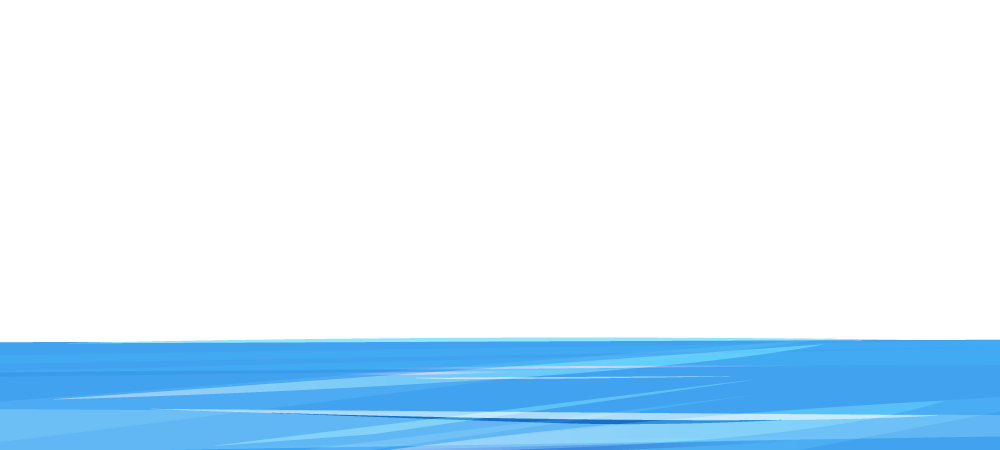
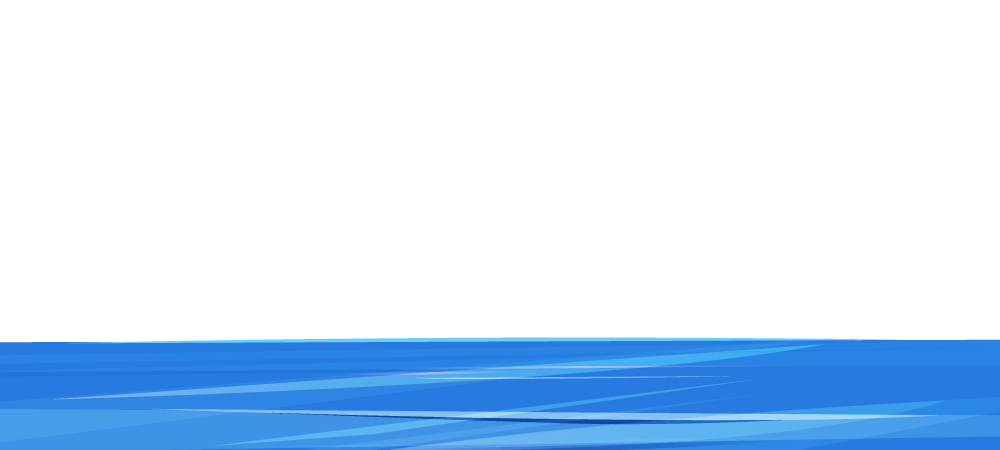
Update parallaxHeader

Changed region(s): [[0.0, 0.7467, 1.0, 1.0]]

diff --git a/src/components/parallaxHeader/data.js b/src/components/parallaxHeader/data.js
@@ -37,6 +37,7 @@ export const imgData = (
     {
       id: 1,
       img: "night-sea.png",
+      imgLight: "sea.png",
       ref: night_sea,
       style: imgStyle1,
       class: "",
@@ -44,6 +45,7 @@ export const imgData = (
     {
       id: 2,
       img: "balloon.png",
+      imgLight: "ballonLight.png",
       ref: balloon,
       style: ballonStyle(
         isSmallScreen,
@@ -58,6 +60,7 @@ export const imgData = (
     {
       id: 3,
       img: "moon.png",
+      imgLight: "sun.png",
       ref: moon,
       style: moonStyle(
         isSmallScreen,
@@ -72,6 +75,7 @@ export const imgData = (
     {
       id: 4,
       img: "above-moon.png",
+      imgLight: "above_sun.png",
       ref: abovemoon,
       style: abovemoonStyle,
       class: "",
@@ -79,6 +83,7 @@ export const imgData = (
     {
       id: 5,
       img: "under-moon.png",
+      imgLight: "under_sun.png",
       ref: undermoon,
       style: undermoonStyle,
       class: "",
@@ -86,6 +91,7 @@ export const imgData = (
     {
       id: 6,
       img: "boat.png",
+      imgLight: "boatLight.png",
       ref: boat,
       style: boatStyle(
         isSmallScreen,

diff --git a/src/components/parallaxHeader/style.js b/src/components/parallaxHeader/style.js
@@ -5,7 +5,10 @@ export const allStyle = {
 };
 export const BoxStyle = (background, theme) => {
   const style = {
-    background: `linear-gradient(#0F2B9C, #673D7D ${background}%, #0F2B9C, #EDFC54 )`,
+    background:
+      theme == "dark"
+        ? `linear-gradient(#0F2B9C, #673D7D ${background}%, #0F2B9C, #EDFC54 )`
+        : `linear-gradient( skyblue, #efefef ${background}%,  skyblue,  #c7e3ff)`,
     position: "relative",
     width: "100%",
     height: "110vh",
@@ -24,7 +27,6 @@ export const BoxStyle = (background, theme) => {
           ? `linear-gradient(to top, #1b1b1b, transparent)`
           : `linear-gradient(to top, #f0fffd, transparent)`,
       zIndex: 1000,
-  
     },
   };
   return style;

diff --git a/src/components/parallaxHeader/Main.jsx b/src/components/parallaxHeader/Main.jsx
@@ -120,7 +120,7 @@ const ParallaxHeader = () => {
                 ref={item.ref}
                 style={item.style}
                 className={item.class}
-                src={`/images/${item.img}`}
+                src={`/images/${theme == "dark" ? item.img : item.imgLight}`}
               ></ImgStyle>
             );
           }
